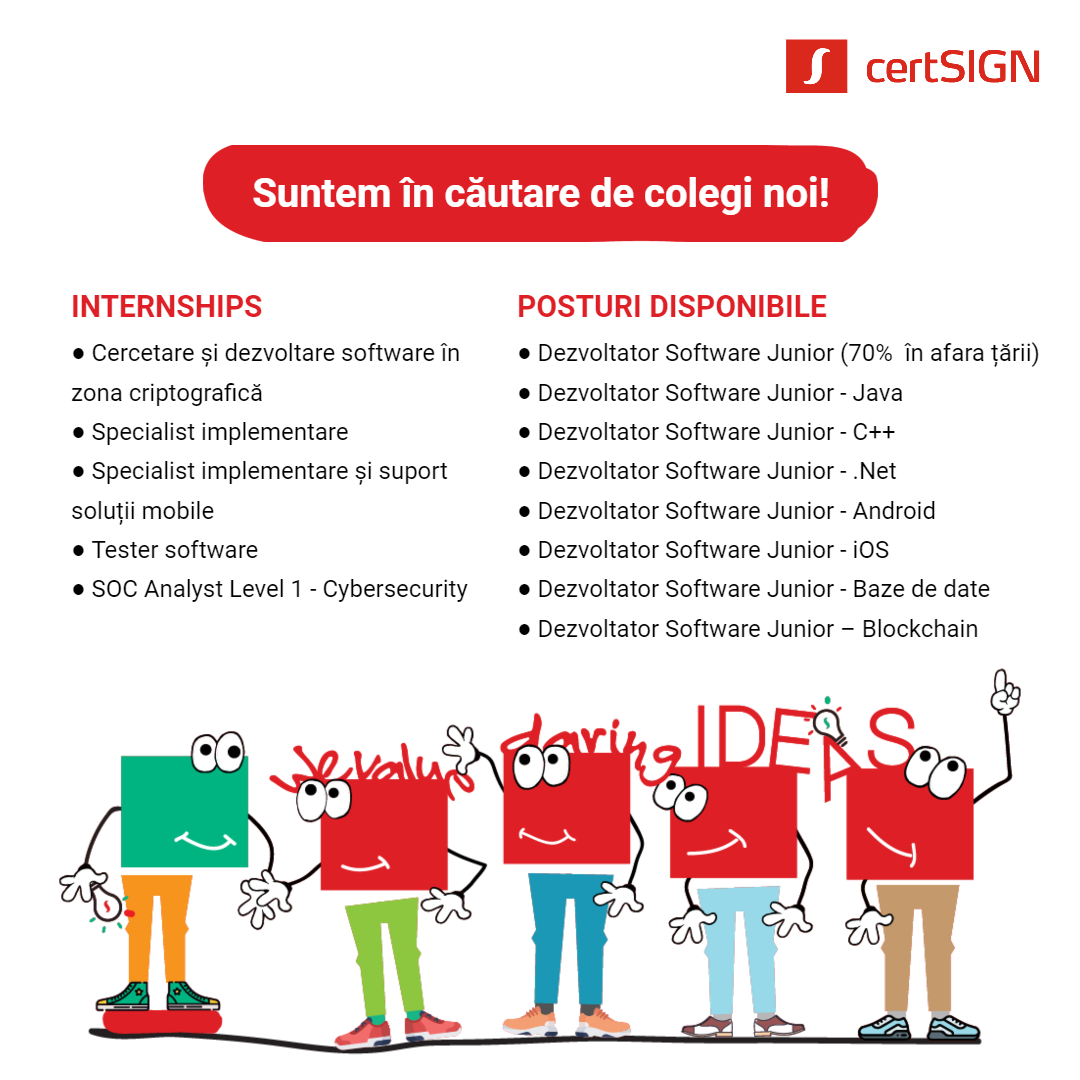
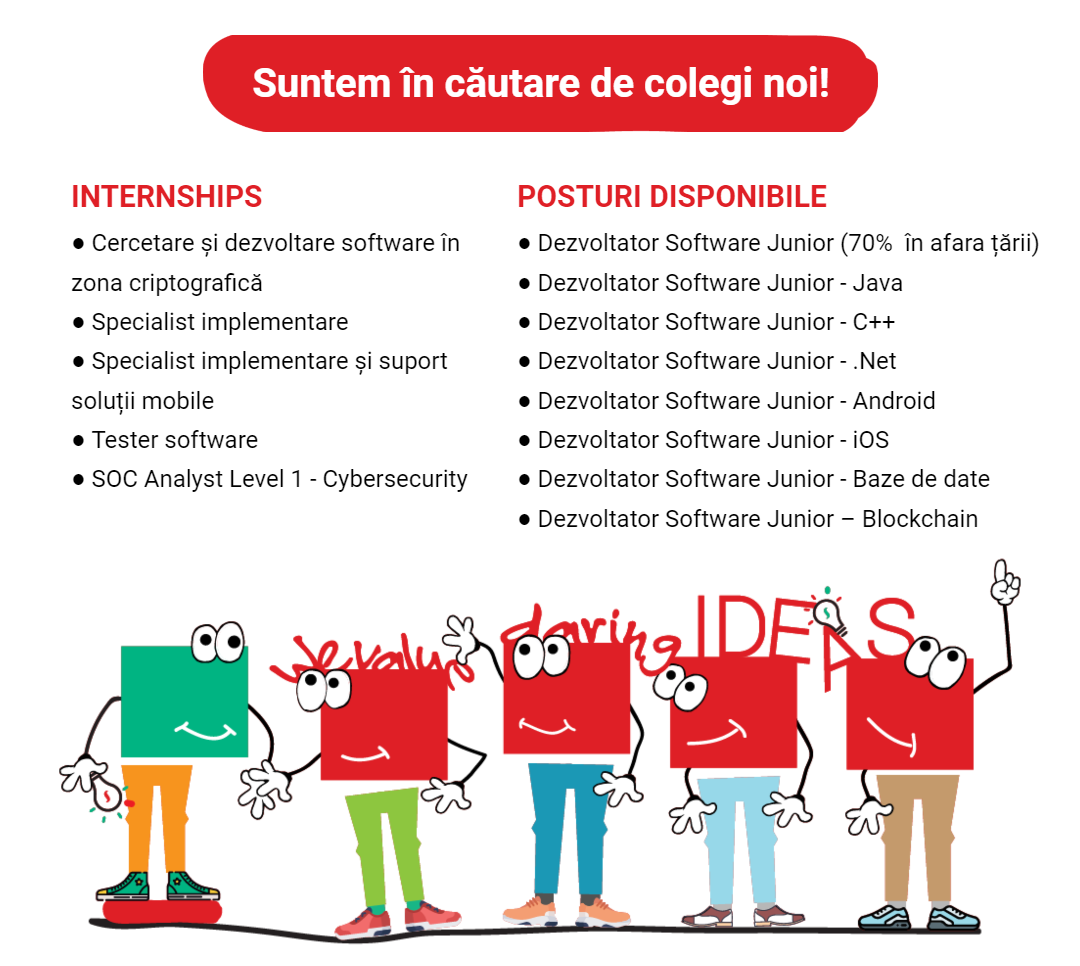
Update Certsign

diff --git a/companies/templates/certsign.html b/companies/templates/certsign.html
@@ -14,29 +14,8 @@ Suntem lider pe piața semnăturilor electronice în România. Suntem pionieri a
 <br>Suntem mândrii să fim certSIGN!
 <br><br>
 
-<img width="100%" src="/companies/media/certSign/Poza_internship.png">
+<img width="50%" src="/companies/media/certSign/Poza_internship.png">
 
-<!--Posturi disponibile:
-<ul>
-    <li>Dezvoltator Software Junior (70% lucru în afara țării)</li>
-    <li>Dezvoltator Software Junior - Java</li>
-    <li>Dezvoltator Software Junior - C++</li>
-    <li>Dezvoltator Software Junior - .Net</li>
-    <li>Dezvoltator Software Junior - Android</li>
-    <li>Dezvoltator Software Junior - iOS</li>
-    <li>Dezvoltator Software Junior - Baze de date</li>
-    <li>Dezvoltator Software Junior - Blockchain</li>
-</ul>
-<br>
-Internship-uri:
-<ul>
-    <li>Cercetare și Dezvoltare Software în zona criptografică</li>
-    <li>Specialist Implementare</li>
-    <li>Specialist Implementare și Suport Soluții Mobile</li>
-    <li>Tester Software</li>
-    <li>SOC Analyst Level 1 – Cybersecurity</li>
-</ul>
--->
 <br>
 Toate detaliile despre posturile și internship-urile disponibile sunt în secțiunea Cariere a site-ului nostru, la adresa: <a href="https://www.certsign.ro/ro/cariera">www.certsign.ro/ro/cariera</a>
 <br><br>
